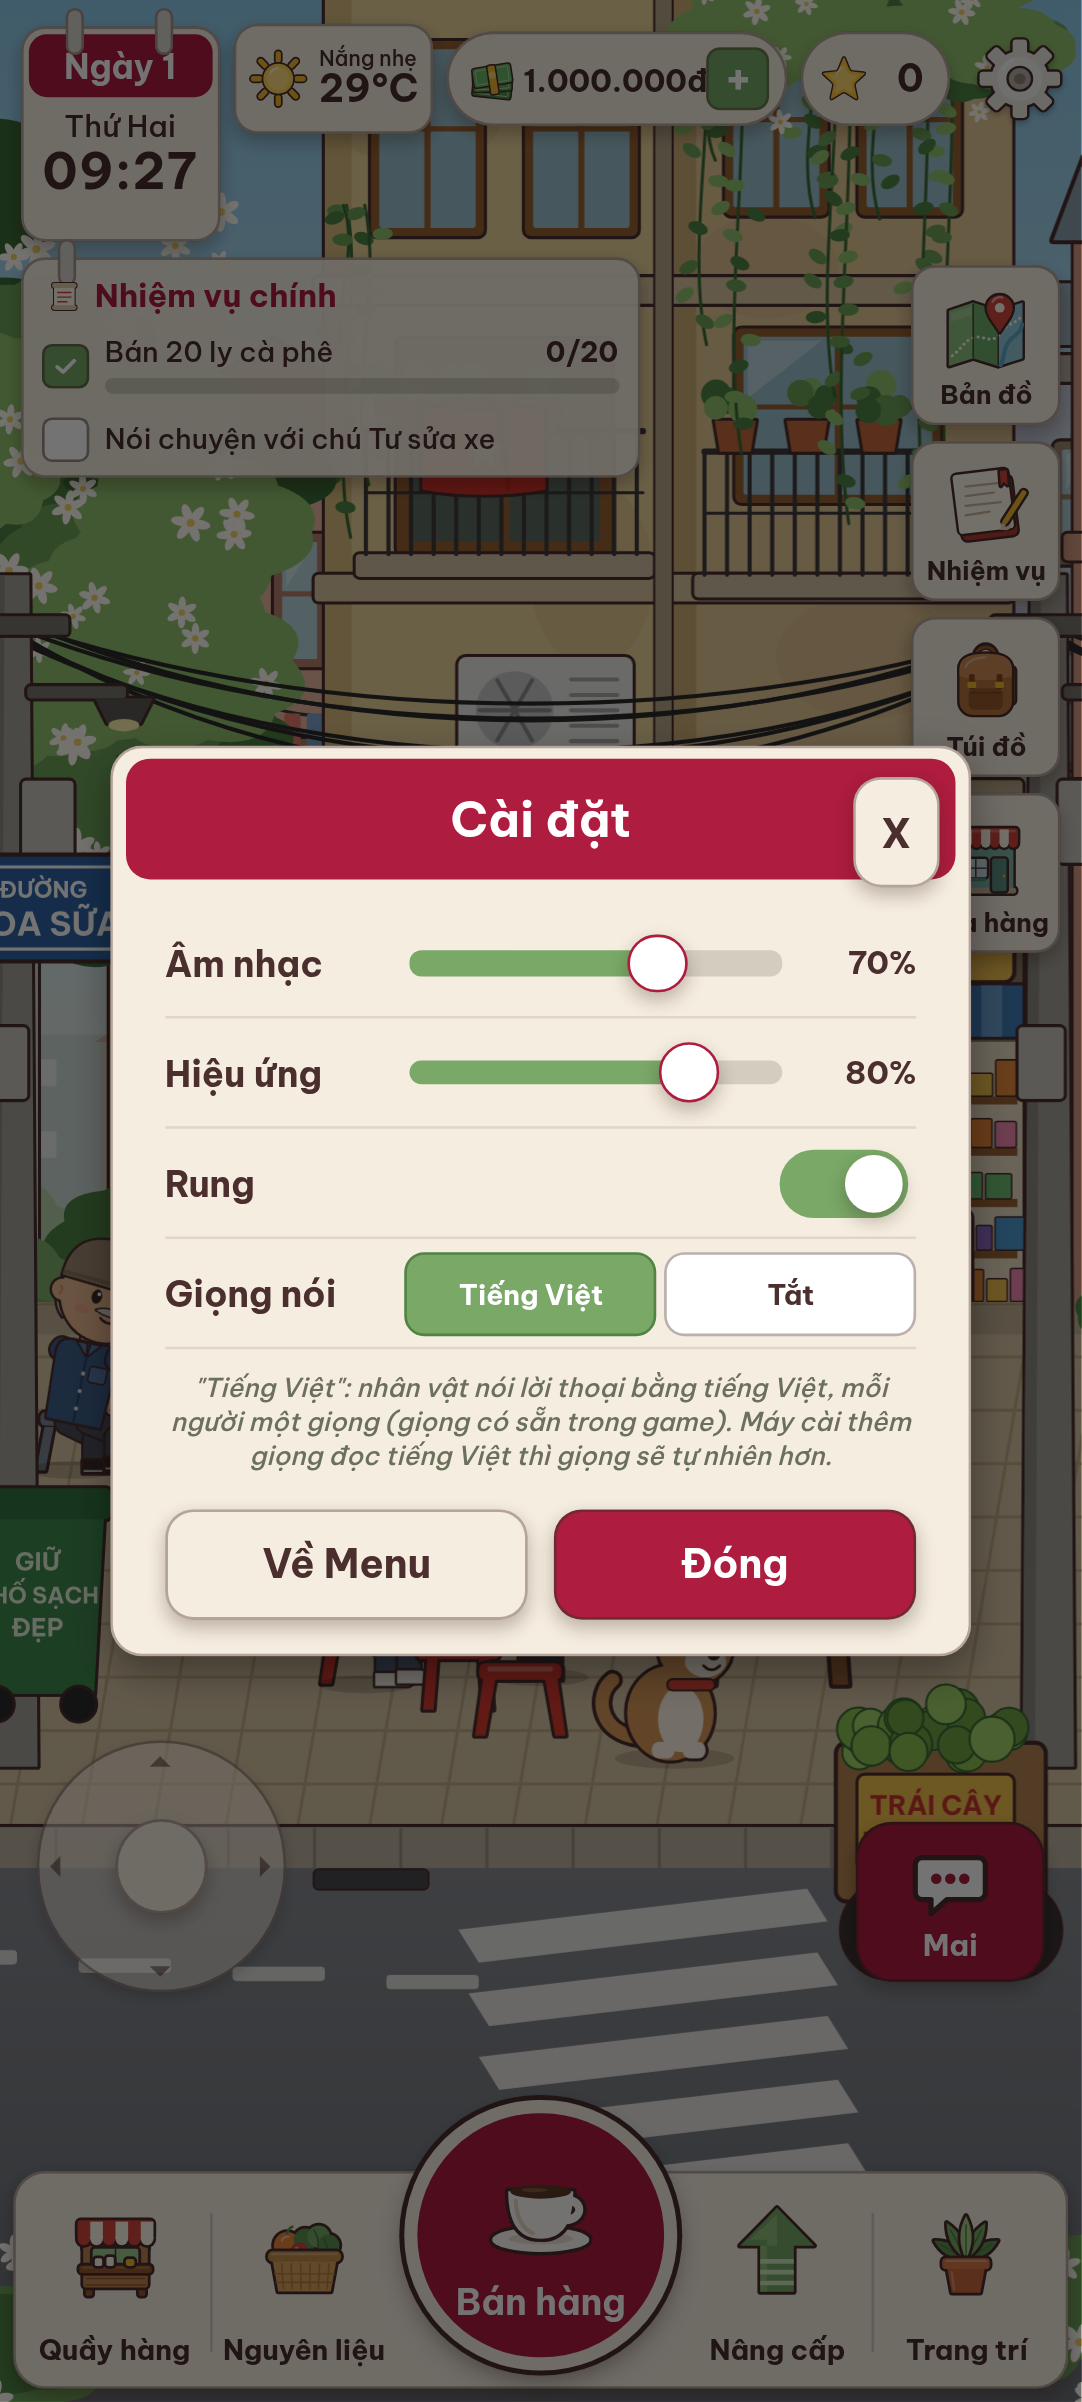
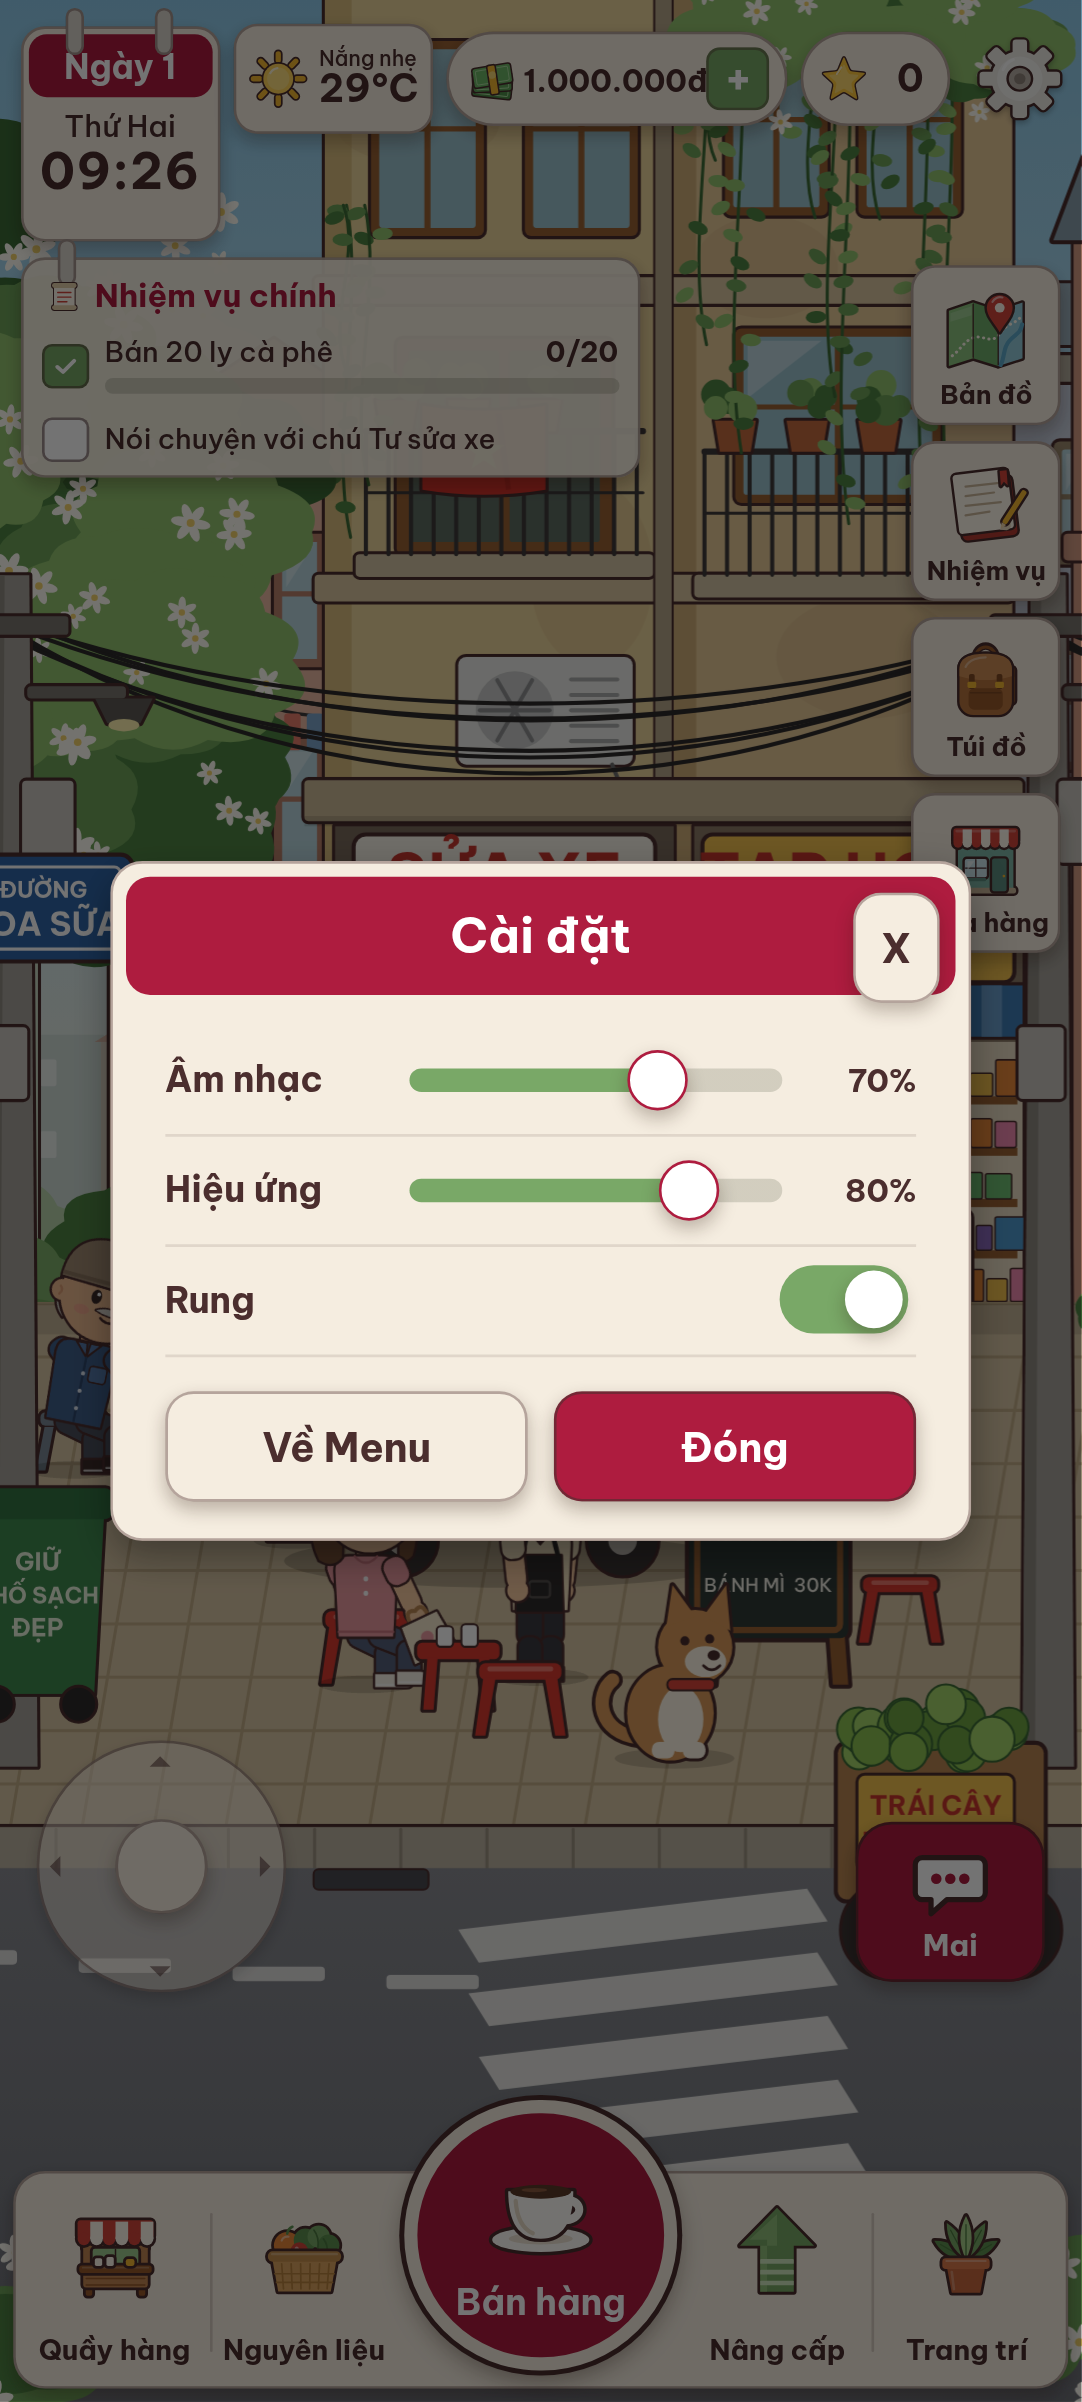
Tạm tắt lồng tiếng (0.10.4)
- VOICE_ENABLED = false: nhân vật không nói, hội thoại dùng tiếng "tách" khi chữ chạy; ẩn mục Giọng nói trong Cài đặt
- Giữ nguyên mã, file giọng và trang thu âm để bật lại sau

Claude-Session: https://claude.ai/code/session_01R4Cxq2qMm8t5ahkv61PHZv

Changed region(s): [[0.0915, 0.3122, 0.915, 0.7182], [0.0305, 0.0624, 0.183, 0.0937]]

diff --git a/tests/audio.spec.ts b/tests/audio.spec.ts
@@ -37,6 +37,24 @@ test("Âm thanh: nhạc nền theo buổi, giọng nhân vật theo dấu thanh,
   expect(await mood(14 * 60, "heavyRain")).toBe("rain");
   await mood(9 * 60, "sunny");
 
+  // --- lồng tiếng tạm tắt: hội thoại chỉ có tiếng "tách" khi chữ chạy, Cài đặt không có mục Giọng nói ---
+  if (!(await G(page, "g.voiceEnabled"))) {
+    await G(page, `(() => { g.voice.log.length = 0; g.sfx.log.length = 0; w.interact({ kind: "char", c: w.life.get("mai"), name: "" }); for (let i = 0; i < 60 && !g.dialogue.state.open; i++) w.step(0.5); })()`);
+    await expect.poll(async () => (await G(page, "g.sfx.log.filter((x) => x === 'blip').length")) as number, { timeout: 30_000 }).toBeGreaterThan(2);
+    expect(await G(page, "g.voice.log.length")).toBe(0);
+    await G(page, "g.dialogue.close()");
+    await G(page, `(() => { const c = w.customers.spawn("student", "tratac", false); c.patience = c.max = 999; for (let i = 0; i < 200 && c.state !== "waiting"; i++) w.step(0.25); })()`);
+    expect(await G(page, "g.voice.log.length")).toBe(0);
+    await G(page, "w.customers.clear()");
+    await page.locator('[data-action="settings"]').tap();
+    const sp = page.locator('[data-name="SettingsPanel"]');
+    await expect(sp).toBeVisible();
+    await expect(sp.locator(".seg-btn").first()).toBeHidden();
+    await expect(sp.getByText("Giọng nói", { exact: true })).toBeHidden();
+    await page.screenshot({ path: `docs/screens/settings_voice_${info.project.name.replace(/[^\w]+/g, "_")}.png` });
+    expect(errors, errors.join("\n")).toEqual([]);
+    return;
+  }
   // --- giọng: cao độ theo đúng dấu thanh của từng chữ, mỗi nhân vật một giọng ---
   // --- mặc định "Tiếng Việt": máy không có giọng đọc → phát file giọng nói có sẵn, KHÔNG líu lo ---
   if (!(await G(page, "g.voice.ttsAvailable"))) {

diff --git a/src/app/Boot.ts b/src/app/Boot.ts
@@ -23,7 +23,7 @@ import { ShopPanel } from "../screens/ShopPanel";
 import { SHOP_CLOSE, SHOP_OPEN } from "../data/items";
 import { sfx } from "../core/Sfx";
 import { music } from "../core/Music";
-import { voice } from "../core/Voice";
+import { voice, VOICE_ENABLED } from "../core/Voice";
 import { isNight } from "../core/weather";
 import { HISTORY_MAX, ensureToday, summarize } from "../core/DayStats";
 import { DAY_END } from "../core/TimeSystem";
@@ -96,7 +96,7 @@ export class Boot {
     music.volume = () => this.settings.value.music / 100;
     voice.volume = () => this.settings.value.sfx / 100;
     // chọn "Tiếng Việt" mà máy không có giọng đọc tiếng Việt → tự dùng giọng líu lo
-    voice.mode = () => this.settings.value.voice; // "Tiếng Việt" luôn là tiếng nói thật (giọng máy hoặc file có sẵn), không tự rơi về líu lo
+    voice.mode = () => (VOICE_ENABLED ? this.settings.value.voice : "off"); // "Tiếng Việt" luôn là tiếng nói thật (giọng máy hoặc file có sẵn), không tự rơi về líu lo
     const unlock = () => { sfx.unlock(); music.start(); voice.prime(); };
     document.addEventListener("pointerdown", unlock, true);
     document.addEventListener("keydown", unlock, true);

diff --git a/src/screens/screens.ts b/src/screens/screens.ts
@@ -2,7 +2,7 @@ import { formatClock, formatMoney, weekdayOf, newGameState, type GameStateData }
 import type { SettingsService } from "../core/settings";
 import { ICONS, UI_ART, button, el, img, nextFrame, wait } from "./dom";
 import { sfx } from "../core/Sfx";
-import { voice } from "../core/Voice";
+import { voice, VOICE_ENABLED } from "../core/Voice";
 
 export const TAGLINE = "Những câu chuyện nhỏ từ góc phố thân quen…";
 
@@ -320,6 +320,7 @@ export class SettingsPanel extends Modal {
       this.voiceNote.textContent = settings.value.voice === "tts" && !voice.ttsAvailable ? NOTE_NO : NOTE_OK;
     };
     this.voiceNote = el("p", "note", this.body, NOTE_OK);
+    if (!VOICE_ENABLED) { vr.hidden = true; this.voiceNote.hidden = true; } // lồng tiếng tạm tắt
     settings.subscribe(paint);
     this.repaintVoice = paint;
     const actions = el("div", "modal-actions", this.body);

diff --git a/src/core/Voice.ts b/src/core/Voice.ts
@@ -8,6 +8,9 @@ import { VOICE_CLIPS } from "../data/voiceClips";
  *    (public/voice, sinh bởi tools/voice/gen.py) — nên máy nào cũng nghe được tiếng nói, không rơi về líu lo.
  *  - "off": tắt.
  */
+/** Lồng tiếng đang TẠM TẮT (giọng máy nghe chưa thật). Bật lại: đổi thành true — mọi thứ khác giữ nguyên. */
+export const VOICE_ENABLED = false;
+
 export type VoiceMode = "tts" | "off";
 export interface VoiceProfile { f0: number; type: OscillatorType; speed: number; ttsPitch: number; ttsRate: number }
 

diff --git a/src/main.ts b/src/main.ts
@@ -3,7 +3,7 @@ import "./screens/screens.css";
 import { Boot } from "./app/Boot";
 import { sfx } from "./core/Sfx";
 import { music } from "./core/Music";
-import { clipKey, voice } from "./core/Voice";
+import { clipKey, voice, VOICE_ENABLED } from "./core/Voice";
 import { dialogueFor } from "./data/dialogues";
 import { DEMO_STATE } from "./core/GameState";
 
@@ -21,6 +21,7 @@ const hook = {
   music,
   voice,
   clipKey,
+  voiceEnabled: VOICE_ENABLED,
   dialogueFor,
   get dialogue() { return boot.dialogue; },
   get quests() { return boot.quests; },

diff --git a/public/sw.js b/public/sw.js
@@ -1,6 +1,6 @@
 // Service worker Góc Phố Việt — chơi lại được khi mất mạng.
 // Đổi VERSION mỗi lần phát hành để người chơi nhận bản mới.
-const VERSION = "gpv-phase10-4";
+const VERSION = "gpv-phase10-5";
 const CORE = ["./", "./index.html", "./manifest.webmanifest", "./icons/icon-192.png", "./icons/icon-512.png",
   "./fonts/BeVietnamPro-Bold.woff2", "./fonts/BeVietnamPro-Medium.woff2"];
 

diff --git a/src/version.ts b/src/version.ts
@@ -1,2 +1,2 @@
 /** Phiên bản hiển thị ở Menu chính. Tăng mỗi phase. */
-export const VERSION = "0.10.3 · Phase 10";
+export const VERSION = "0.10.4 · Phase 10";
